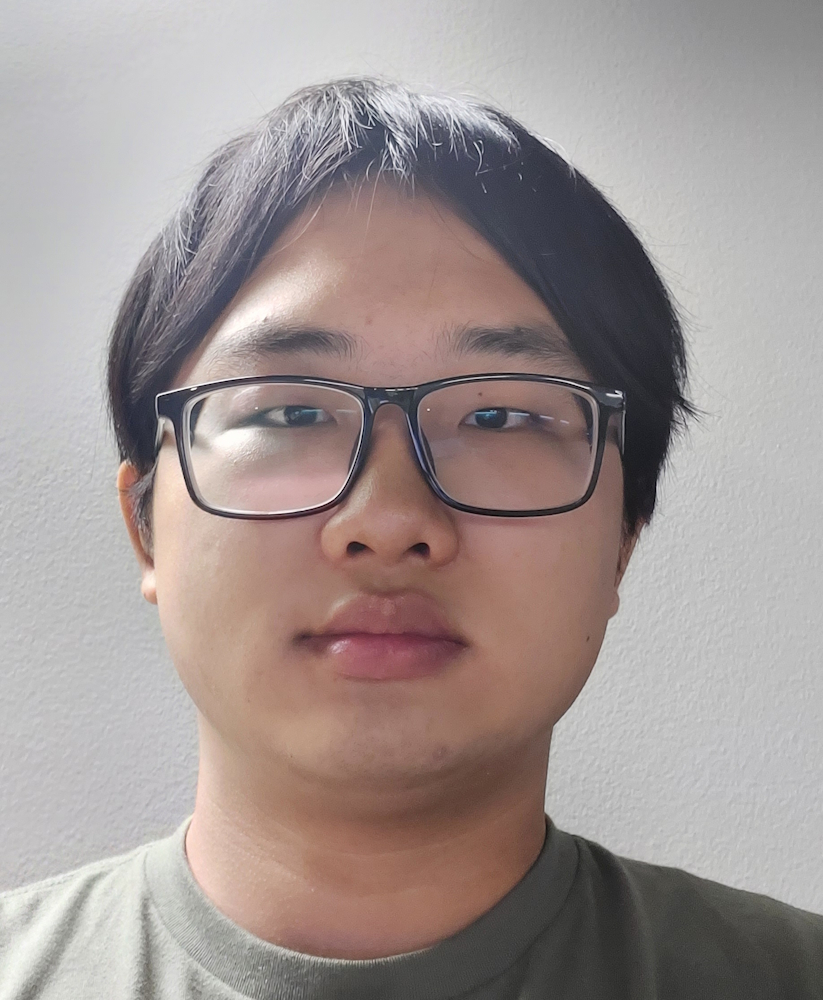
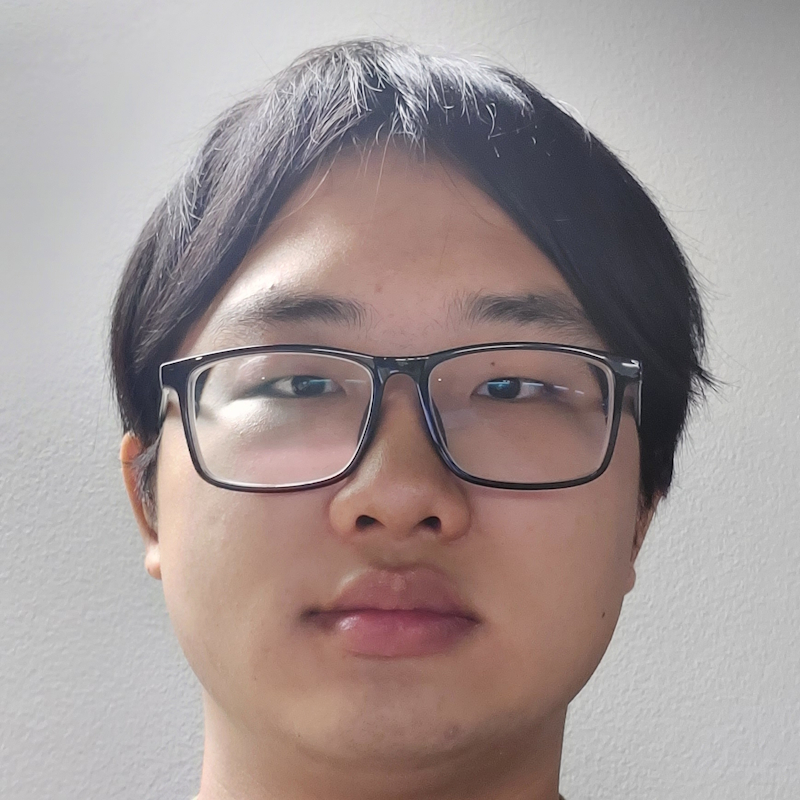
Added personal information and updated selfie

diff --git a/src/index.html b/src/index.html
@@ -10,12 +10,19 @@
 </head>
 
 <body>
-  <h1>Hello World!</h1>
-  <div class="center-outer">
-    <img id="selfie" src="assets/selfie.jpg"/>
-  </div>
-  <script src="bundle.js" type="text/javascript"></script>
-  <p>Test that GitHub Pages works</p>
+  <img id="selfie" src="assets/selfie.jpg"/>
+  <h1 class="centered-text">Chung-Yen Fann</h1>
+  <p class="centered-text">
+    <em>cyfann2@illinois.edu</em>
+  </p>
+  <p class="centered-text">
+    <a href="https://github.com/cyfann">GitHub</a>
+  </p>
+  <p>I am an Aerospace Engineering student at UIUC with a Minor in Computer Science. I am interested in the applications of tensegrity components within aerospace structures.
+  </p>
+  <p>In my free time, I like to play factory building games such as <em>Satisfactory</em> and <em>Factorio</em>. I also like to design patterns for plushies and to sew the plushies themselves.</p>
 </body>
+
+<script src="js/index.js" type="text/javascript"></script>
 
 </html>

diff --git a/src/css/main.css b/src/css/main.css
@@ -1,5 +1,23 @@
+html {
+    background: #ffffff;
+    font-family: "Arial", sans-serif;
+}
+body {
+    max-width: 750px;
+    width: 80%;
+    margin: 20px auto;
+    padding: 20px;  
+    background: #FFA500;
+}
+
 #selfie {
     display: block;
-    width: 250px;
+    width: 150px;
+    height: 150px;
     margin: 0 auto;
+    border-radius: 50%;
+}
+
+.centered-text {
+    text-align: center;
 }

diff --git a/src/js/index.js b/src/js/index.js
@@ -1,2 +1,2 @@
 /* Your JS here. */
-console.log('Hello World!')
+// console.log('Hello World!')
